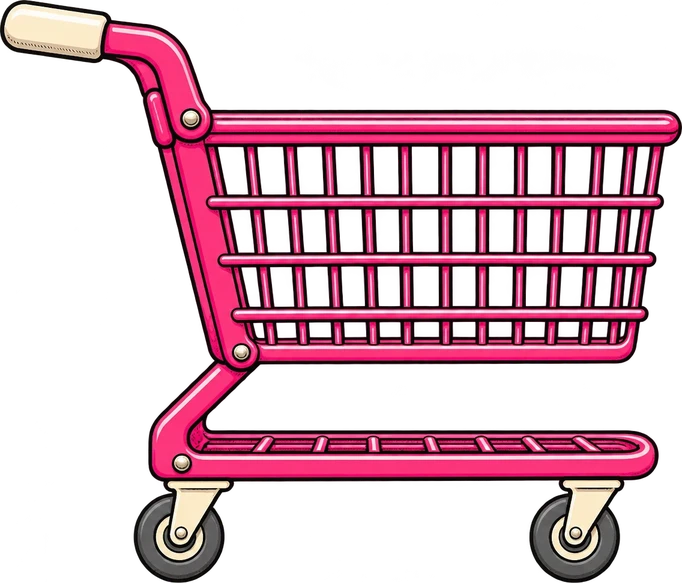
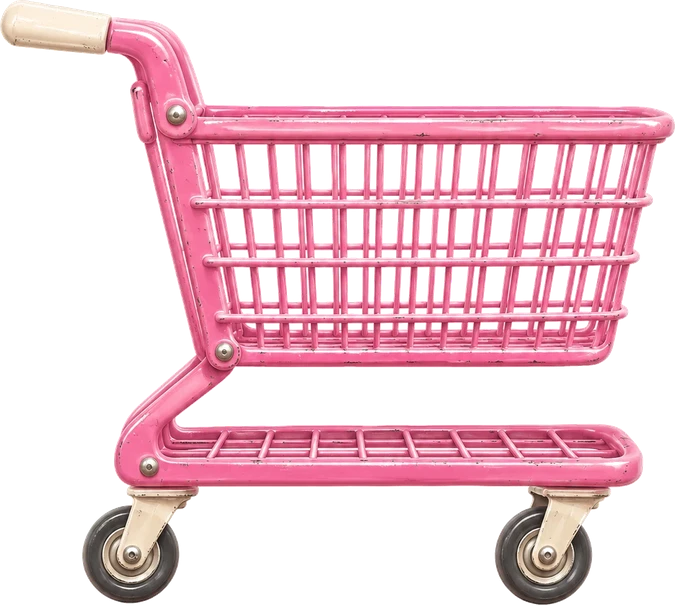
Laundry game: photo-style pink cart

diff --git a/index.html b/index.html
@@ -268,9 +268,9 @@ button{font:inherit;color:inherit;cursor:inherit}
 #ct .g-pop{position:absolute;z-index:6;font-family:var(--f-display);font-size:22px;color:var(--ink);pointer-events:none;animation:gPop .6s ease-out forwards}
 #ct .g-pop.miss{color:#b0466f}
 @keyframes gPop{from{transform:translate(-50%,0);opacity:1}to{transform:translate(-50%,-46px);opacity:0}}
-#ct .g-cart{position:absolute;z-index:4;left:0;bottom:calc(5% + env(safe-area-inset-bottom,0px));width:min(26vw,300px);aspect-ratio:682/583;will-change:transform}
+#ct .g-cart{position:absolute;z-index:4;left:0;bottom:calc(5% + env(safe-area-inset-bottom,0px));width:min(26vw,300px);aspect-ratio:675/606;will-change:transform}
 #ct .g-cart .g-cimg{position:absolute;inset:0;width:100%;height:100%;z-index:2;pointer-events:none;user-select:none}
-#ct .g-cart .ct-pile{left:32%;right:3%;top:-26%;bottom:42%}   /* 새 카트 바구니 안 */
+#ct .g-cart .ct-pile{left:30%;right:2%;top:-26%;bottom:41%}   /* 새 카트 바구니 안 */
 #ct .g-cart .ct-pile img{width:36%}
 #ct .g-over{position:absolute;z-index:7;left:50%;top:52%;transform:translate(-50%,-50%);width:min(86vw,380px);background:#fbf3e2;border-radius:22px;box-shadow:0 6px 0 var(--ink);padding:26px 24px 22px;text-align:center;cursor:default}
 #ct .g-over h3{margin:0 0 8px;font-family:var(--f-display);font-size:34px;letter-spacing:.06em}
@@ -1275,7 +1275,7 @@ function renderCart(){   // 쇼핑카트: 빨래 받기 미니게임만
   const pic=i=>'img/cloth3d/'+String(i+1).padStart(2,'0')+'.webp';
   panel.innerHTML='<div id="ct"><button class="back" data-back aria-label="뒤로"><svg viewBox="0 0 24 24" width="20" height="20" fill="none" stroke="currentColor" stroke-width="2.6" stroke-linecap="round" stroke-linejoin="round" aria-hidden="true"><path d="M15 5l-7 7 7 7"/></svg></button>'+
     '<div class="ct-game"><div class="g-hud"><span class="g-score">0</span><span class="g-time">30s</span><span class="g-best">BEST 0</span></div><div class="g-field"></div>'+
-    '<div class="g-cart"><div class="ct-pile"></div><img class="g-cimg" src="img/game_cart.webp" alt="" draggable="false"></div>'+
+    '<div class="g-cart"><div class="ct-pile"></div><img class="g-cimg" src="img/game_cart.webp?v=2" alt="" draggable="false"></div>'+
     '<div class="g-over"><h3>LAUNDRY CATCH</h3><p>건조기에서 날아오는 빨래를 카트로 받아요!<br>마우스·손가락으로 끌거나 ← → 키로 움직여요</p><button class="g-start">START</button></div></div></div>';
   ct={g:laundryGame($('#ct .ct-game'),pic)};
 }
@@ -1298,11 +1298,11 @@ function laundryGame(el,pic){
     left-=dt;tm.textContent=Math.max(0,Math.ceil(left))+'s';
     if(key)tx=Math.max(0,Math.min(1,tx+key*dt*1.1));x+=(tx-x)*Math.min(1,dt*14);place();
     if((next-=dt)<=0){spawn();next=Math.max(.38,1-(DUR-left)*.022)*(.7+Math.random()*.6)}
-    const w=W(),h=H(),c=cw(),cl=Math.max(0,Math.min(w-c,x*w-c/2)),rim=h-ch()-h*.05+ch()*.2;
+    const w=W(),h=H(),c=cw(),cl=Math.max(0,Math.min(w-c,x*w-c/2)),rim=h-ch()-h*.05+ch()*.18;
     for(const it of items){
       if(it.done)continue;const py=it.y;it.y+=it.v*dt;it.r+=it.w*dt;
       if(py+it.size*.6<rim&&it.y+it.size*.6>=rim){   // 카트 테두리를 지나는 순간 판정
-        if(it.x>cl+c*.3&&it.x<cl+c*.99){it.done=true;it.im.remove();score++;sc.textContent=score;pop(it.x,rim-30,'+1');
+        if(it.x>cl+c*.29&&it.x<cl+c*.99){it.done=true;it.im.remove();score++;sc.textContent=score;pop(it.x,rim-30,'+1');
           const p=document.createElement('img');p.src=it.im.src;p.alt='';const k=pile.children.length;p.style.left=(2+(k*23)%50)+'%';p.style.bottom=Math.min(40,6+Math.floor(k/3)*6)+'%';p.style.setProperty('--r',((k*53%31)-15)+'deg');pile.appendChild(p);
           if(pile.children.length>14)pile.firstElementChild.remove();continue}
       }
